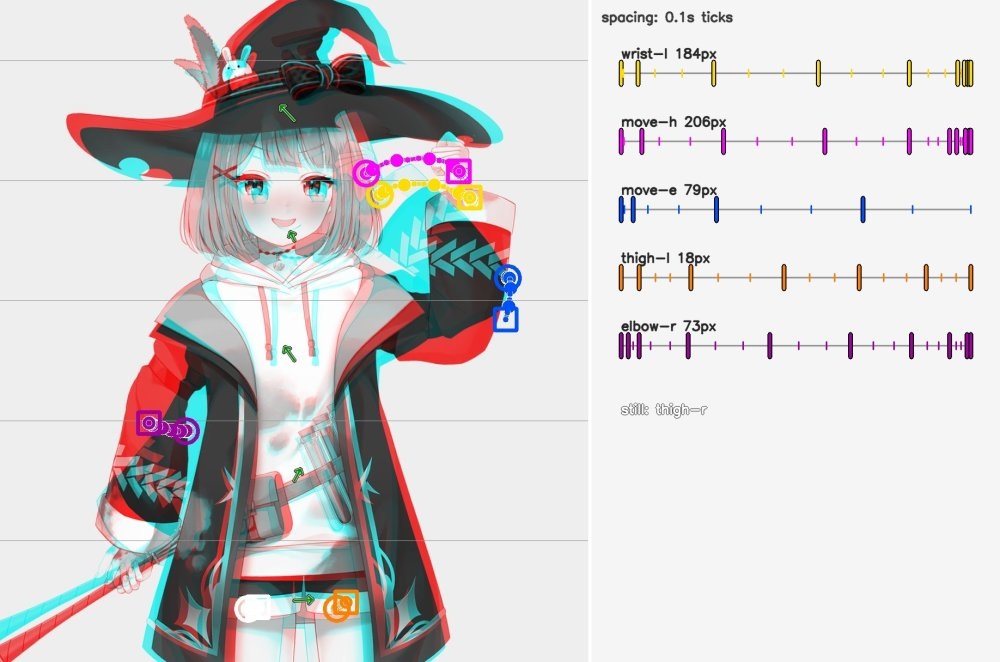
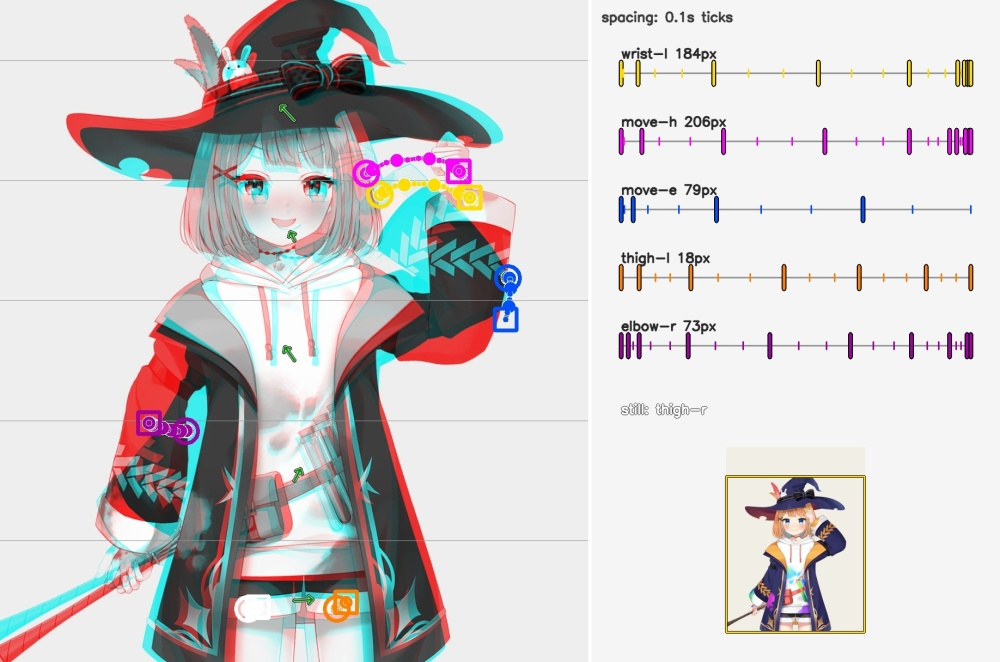
Onion pictures: crop floor and ratio limit, whole-frame stills, context frame
- The pictures (onion, strip, peak panel) show at least half the frame's
  shorter side each way, between 1.6:1 and 1:1.6. mikumiku (a character in a
  square card) gave 1372x395 strips of one body part. Measurements keep the
  padded person box: look.md unchanged on four clips.
- Short-cut stills are the whole frame.
- The chart panel shows the span's whole first frame under its rows, with the
  onion's view outlined in yellow. It fills the panel's empty space: mikumiku
  stays 6 sheets, ~9,200 image tokens.
- README examples regenerated; captions and legends name the small frame.
- Manifest rehashed (also picks up files from #71/#72 that were not rehashed).

Changed region(s): [[0.713, 0.6949, 0.868, 0.9668]]

diff --git a/image_lens/onion.py b/image_lens/onion.py
@@ -16,6 +16,23 @@ def _box(bbox, w, h):
     return max(0, int(x0-px)), max(0, int(y0-py)), min(w, int(x1+px)), min(h, int(y1+py))
 
 
+# The pictures (onion, still, strip, peak panel) show at least half the frame's shorter side each way, between 1.6:1
+# and 1:1.6 (wide or tall, the same limit):
+# a pose box around the visible part of a character in a square card (mikumiku) cut 1372x395 strips of one body part.
+# Measurements (bands, gaps, peak's difference) stay on the padded box.
+VIEW = dict(min_side=.5, max_aspect=1.6)
+
+
+def _view(bbox, w, h):
+    x0, y0, x1, y1 = _box(bbox, w, h)
+    side = VIEW['min_side']*min(w, h)
+    bw, bh = max(x1-x0, side), max(y1-y0, side)
+    bw, bh = min(w, max(bw, bh/VIEW['max_aspect'])), min(h, max(bh, bw/VIEW['max_aspect']))
+    cx, cy = (x0+x1)/2, (y0+y1)/2
+    vx, vy = int(min(max(0, cx-bw/2), w-bw)), int(min(max(0, cy-bh/2), h-bh))
+    return vx, vy, vx+int(bw), vy+int(bh)
+
+
 # Each part's lead point (digest.limbs) drawn frame by frame on the onion: the overlay shows only start and end, the
 # trail shows how the part got there and where it bunched up (slow) or spread out (fast).
 # Every frame's dot looked evenly spaced even where the speed fell (Live2D sweep: the hand went 21 -> 0 px/f in its last
@@ -90,7 +107,7 @@ def bands(video, start, end, bbox, camera=None, image=None, trails=(), colors=No
         if camera:  # trails have the camera taken out; without this the overlay showed a pan as motion (anime clip f180..209)
             last = cv2.warpAffine(last, np.float32([[1, 0, -cam[0]], [0, 1, -cam[1]]]), (w, h), borderMode=cv2.BORDER_REPLICATE)
         capture = cv2.VideoCapture(str(video)); fps = capture.get(cv2.CAP_PROP_FPS); capture.release()
-        _image(cv2, np, first, last, (x0, y0, x1, y1), result, image, trails, colors, named, fps)
+        _image(cv2, np, first, last, _view(bbox, w, h), result, image, trails, colors, named, fps, (x0+x1)//2)
     return result
 
 
@@ -158,22 +175,24 @@ def spacing_rows(trails, fps):
     return rows, skipped
 
 
-def spacing(video, image, trails, colors=None):
+def spacing(video, image, trails, colors=None, context=None):
     """Append the spacing chart right of the onion image: one equal-length line per trail, a thick tick every
-    TRAILS['tick_seconds'] and a thin one per frame at the fraction of path covered; close ticks = slow."""
+    TRAILS['tick_seconds'] and a thin one per frame at the fraction of path covered; close ticks = slow.
+    context=(frame, bbox): under the rows, that whole frame small with the onion's view outlined (`_context`)."""
     import cv2
     import numpy as np
     picture = cv2.imread(str(image))
-    if picture is None or not trails:
+    if picture is None:
         return None
     capture = cv2.VideoCapture(str(video)); fps = capture.get(cv2.CAP_PROP_FPS); capture.release()
-    rows, skipped = spacing_rows(trails, fps)
-    if not rows:
+    rows, skipped = spacing_rows(trails, fps) if trails else ([], [])
+    if not rows and not context:
         return None
     h = picture.shape[0]; k = max(1., h/SPACING['height']); w = round(SPACING['width']*k)
     panel = np.full((h, w, 3), 245, np.uint8); m = round(SPACING['margin']*k); x0, x1 = m, w-m
     row = min(round(SPACING['row']*k), (h-2*m)//(len(rows)+1)); size, th = .45*k, max(1, round(k))
-    cv2.putText(panel, f"spacing: {TRAILS['tick_seconds']:g}s ticks", (round(10*k), round(22*k)), cv2.FONT_HERSHEY_SIMPLEX, size, (60, 60, 60), th, cv2.LINE_AA)
+    if rows:
+        cv2.putText(panel, f"spacing: {TRAILS['tick_seconds']:g}s ticks", (round(10*k), round(22*k)), cv2.FONT_HERSHEY_SIMPLEX, size, (60, 60, 60), th, cv2.LINE_AA)
     palette = {t['point']: c for t, c in zip(trails, colors or TRAILS['colors'])}
     for i, r in enumerate(rows):
         y = m+round(10*k)+row*i+row//2; c = palette[r['point']]; big, small = round(12*k), round(4*k)
@@ -193,15 +212,38 @@ def spacing(video, image, trails, colors=None):
         x += cv2.getTextSize(text+' ', cv2.FONT_HERSHEY_SIMPLEX, size, th)[0][0]
         if x > x1-round(60*k):
             x, y = x0, y+round(24*k)
+    if context:
+        _context(cv2, video, context, panel, (x0, y+row//2 if rows or skipped else m, x1, h-m))
     cv2.imwrite(str(image), np.hstack([picture, np.full((h, 6, 3), 255, np.uint8), panel]))
     return dict(rows=[r['point'] for r in rows], still=skipped)
 
 
-def _image(cv2, np, first, last, box, result, path, trails=(), colors=None, named=False, fps=None):
+def _context(cv2, video, context, panel, area):
+    """The whole frame, fitted into `area` of the chart panel, with the onion's view outlined: a crop alone hid that
+    mikumiku is a character inside a square card on a phone player (2026-11-01). Costs no width: the panel is there."""
+    from image_lens import frames
+    frame, bbox = context
+    got = frames.window(video, frame, frame)
+    if not got:
+        return
+    image = got[0]; h, w = image.shape[:2]; ax0, ay0, ax1, ay1 = area
+    k = min((ax1-ax0)/w, (ay1-ay0)/h)
+    if k <= 0:
+        return
+    small = cv2.resize(image, (max(1, int(w*k)), max(1, int(h*k))), interpolation=cv2.INTER_AREA)
+    sx, sy = ax0+(ax1-ax0-small.shape[1])//2, ay1-small.shape[0]
+    panel[sy:sy+small.shape[0], sx:sx+small.shape[1]] = small
+    vx0, vy0, vx1, vy1 = (_view(bbox, w, h) if bbox else (0, 0, w, h))
+    t = max(2, round(small.shape[0]/200))  # 1 px of colour did not survive JPEG
+    corners = ((sx+int(vx0*k), sy+int(vy0*k)), (sx+int(vx1*k)-1, sy+int(vy1*k)-1))
+    cv2.rectangle(panel, *corners, (0, 0, 0), t+2); cv2.rectangle(panel, *corners, (0, 220, 255), t)
+
+
+def _image(cv2, np, first, last, box, result, path, trails=(), colors=None, named=False, fps=None, centre=None):
     x0, y0, x1, y1 = box
     a = cv2.cvtColor(first, cv2.COLOR_BGR2GRAY)[y0:y1, x0:x1]; b = last[y0:y1, x0:x1]
     picture = np.dstack([b, b, a])  # dark only at the start -> cyan, dark only at the end -> red
-    centre = (x1-x0)//2
+    centre = (x1-x0)//2 if centre is None else centre-x0  # arrows on the person, not the middle of the view
     for band in result:
         top = band['y'][0]-y0
         cv2.line(picture, (0, top), (x1-x0, top), (150, 150, 150), 1)
@@ -251,9 +293,9 @@ def _image(cv2, np, first, last, box, result, path, trails=(), colors=None, name
 PEAK = dict(min_frames=8, margin=.15, scale=4, plateau=.95, draw=False)
 
 
-def _crop(cv2, image, bbox):
+def _crop(cv2, image, bbox, view=True):
     h, w = image.shape[:2]
-    x0, y0, x1, y1 = _box(bbox, w, h) if bbox else (0, 0, w, h)
+    x0, y0, x1, y1 = ((_view if view else _box)(bbox, w, h)) if bbox else (0, 0, w, h)
     return image[y0:y1, x0:x1]
 
 
@@ -269,7 +311,7 @@ def peak(video, start, end, bbox, image):
     window = frames.window(video, start, end)[:hi-start+1]
     found = {}; first = None
     for n, frame in zip(range(start, hi+1), window):
-        small = cv2.resize(cv2.cvtColor(_crop(cv2, frame, bbox), cv2.COLOR_BGR2GRAY), None, fx=1/PEAK['scale'], fy=1/PEAK['scale'], interpolation=cv2.INTER_AREA).astype(np.float32)
+        small = cv2.resize(cv2.cvtColor(_crop(cv2, frame, bbox, view=False), cv2.COLOR_BGR2GRAY), None, fx=1/PEAK['scale'], fy=1/PEAK['scale'], interpolation=cv2.INTER_AREA).astype(np.float32)
         if first is None:
             first = small
         elif n >= lo:
@@ -312,7 +354,7 @@ def who(video, frame, people, image):
 
 
 def still(video, frame, bbox, image):
-    """One native frame (cropped to the padded person box when there is one) for a range too short to track."""
+    """One native frame, whole (bbox unused, kept for callers), for a range too short to track."""
     import cv2
     cap = cv2.VideoCapture(str(video))
     try:
@@ -322,7 +364,7 @@ def still(video, frame, bbox, image):
         cap.release()
     if not ok:
         return None
-    cv2.imwrite(str(image), _crop(cv2, picture, bbox))
+    cv2.imwrite(str(image), picture)  # the whole frame: a short cut's still is context, not a close-up
     return image.name
 
 
@@ -448,7 +490,7 @@ def lines(result, image_name=None, screen=False, peak=False):
     out = [f'- 높이별 흐름 (사람 상자 5등분, {basis}): ' + ' · '.join(parts)]
     if image_name:
         out.append(f"  - 어니언 그림: {image_name} (청록=시작, 빨강=끝(진한 윤곽선 기준; 배경보다 밝은 면은 띠 색이 반대(청록 띠=간 쪽); 카메라가 움직였으면 끝 프레임을 카메라만큼 되돌려 겹침), 초록 화살표=띠별 이동 ×{ONION['arrow_scale']}(그림 밖으로 나가면 줄임, 머리보다 짧으면 생략); {'왼쪽 회색=시작과 가장 다른 가운데 프레임; ' if peak else ''}"
-                   f"색 점선=부위별 대표 점(몸 기준이 없으면 '화면'에 적힌 점)의 프레임마다 위치({'·'.join(TRAILS['names'])} 순, {basis}), 큰 원·네모=각 연속 관측의 시작·끝, 선 끊김=관측 누락, 이어진 점 간격이 좁으면 느림·넓으면 빠름, 조금 큰 점={TRAILS['tick_seconds']:g}초마다(그 간격이 좁아지면 느려짐); 맨 오른쪽 spacing=부위마다 지나온 길이를 같은 길이 줄로 펼친 것, 굵은 눈금={TRAILS['tick_seconds']:g}초마다·가는 눈금=프레임마다, 눈금이 모이면 느림·벌어지면 빠름(작은 이동도 같은 크기로 보임, {SPACING['min_px']:g}px 미만 부위는 still))")
+                   f"색 점선=부위별 대표 점(몸 기준이 없으면 '화면'에 적힌 점)의 프레임마다 위치({'·'.join(TRAILS['names'])} 순, {basis}), 큰 원·네모=각 연속 관측의 시작·끝, 선 끊김=관측 누락, 이어진 점 간격이 좁으면 느림·넓으면 빠름, 조금 큰 점={TRAILS['tick_seconds']:g}초마다(그 간격이 좁아지면 느려짐); 맨 오른쪽 spacing=부위마다 지나온 길이를 같은 길이 줄로 펼친 것, 굵은 눈금={TRAILS['tick_seconds']:g}초마다·가는 눈금=프레임마다, 눈금이 모이면 느림·벌어지면 빠름(작은 이동도 같은 크기로 보임, {SPACING['min_px']:g}px 미만 부위는 still), 그 아래 작은 그림=구간 첫 프레임 전체(노란 테두리=어니언이 잘라 보여 준 범위))")
     return out
 
 

diff --git a/image_lens/digest.py b/image_lens/digest.py
@@ -439,7 +439,7 @@ def markdown(record, scan, full_name):
                        '단, 어니언에서 그 부위의 청록·빨강 윤곽선이 벌어진 만큼 궤적(과 글의 숫자)이 따라가지 않으면(짧거나 다른 방향) 추적이 미끄러진 것으로 의심한다(카메라 추정 시 어니언과 궤적의 평행이동을 뺐다).')
     if record.get('onion_sheets'):
         out.insert(-1, f"어니언 모음 그림: {', '.join(record['onion_sheets'])} (구간마다 청록=시작, 빨강=끝(진한 윤곽선 기준; 배경보다 밝은 면은 띠 색이 반대(청록 띠=간 쪽); 카메라가 움직였으면 끝 프레임을 카메라만큼 되돌려 겹침), 초록 화살표=높이별 이동, {'왼쪽 회색=시작과 가장 다른 가운데 프레임: 돌거나 갔다 돌아오는 동작은 여기서 보임; ' if any(w.get('peak') for s in record.get('shots', []) for w in s.get('windows', [])) else ''}"
-                       f"색 점선=각 줄 \"몸 기준\"의 부위 대표 점 궤적, 몸 기준이 없는 줄은 \"화면\"에 적힌 점의 궤적({'·'.join(onion.TRAILS['names'])} = 그 줄에 적힌 순서, 점 하나가 한 프레임, 카메라 추정 시 평행이동 제외, 큰 원=시작·큰 네모=끝, 점 간격이 좁으면 느림, 조금 큰 점={onion.TRAILS['tick_seconds']:g}초마다(그 간격이 좁아지면 느려짐); 맨 오른쪽 spacing=부위마다 지나온 길이를 같은 길이 줄로 펼친 것, 굵은 눈금이 모이면 느림·벌어지면 빠름, 작은 이동의 완급은 여기서 봄); "
+                       f"색 점선=각 줄 \"몸 기준\"의 부위 대표 점 궤적, 몸 기준이 없는 줄은 \"화면\"에 적힌 점의 궤적({'·'.join(onion.TRAILS['names'])} = 그 줄에 적힌 순서, 점 하나가 한 프레임, 카메라 추정 시 평행이동 제외, 큰 원=시작·큰 네모=끝, 점 간격이 좁으면 느림, 조금 큰 점={onion.TRAILS['tick_seconds']:g}초마다(그 간격이 좁아지면 느려짐); 맨 오른쪽 spacing=부위마다 지나온 길이를 같은 길이 줄로 펼친 것, 굵은 눈금이 모이면 느림·벌어지면 빠름, 작은 이동의 완급은 여기서 봄, 그 아래 작은 그림=구간 첫 프레임 전체(노란 테두리=어니언이 잘라 보여 준 범위)); "
                        '"who"=사람이 여럿인 구간의 P1·P2 상자; "still"=추적하기엔 짧은 컷의 한 장면, 붙어 있는 컷은 한 줄에 시간 순서; "strip"=몸 돌림 후보 구간의 프레임 5장을 시간 순서로). '
                        '손 모양(하트·브이)처럼 글에 안 나오는 동작은 그림에서 본다.')
     if record.get('frame_sheets'):

diff --git a/image_lens/mark.py b/image_lens/mark.py
@@ -141,7 +141,7 @@ def run(video, shots, frame, points, checkpoint, out, end=None, snap_points=True
         text.append(f"- 어니언 그림: {onion_image} (청록=f{frame}, 빨강=f{stop}(진한 윤곽선 기준; 배경보다 밝은 면은 띠 색이 반대(청록 띠=간 쪽); 카메라가 움직였으면 끝 프레임을 카메라만큼 되돌려 겹침), 색 점선=찍은 점의 프레임마다 위치({basis}; "
                     + ', '.join(f'{c}={n}' for n, c in colors) + "), "
                     f"큰 원·네모=각 연속 관측의 시작·끝, 선 끊김=관측 누락, 이어진 점 간격이 좁으면 느림·넓으면 빠름, 조금 큰 점={onion.TRAILS['tick_seconds']:g}초마다; {'왼쪽 회색=시작과 가장 다른 가운데 프레임; ' if peaked else ''}"
-                    "맨 오른쪽 spacing=점마다 지나온 길이를 같은 길이 줄로 펼친 것(줄 이름=점 이름, 눈금 색=궤적 색), 굵은 눈금이 모이면 느림·벌어지면 빠름, still=거의 안 움직인 점)")
+                    "맨 오른쪽 spacing=점마다 지나온 길이를 같은 길이 줄로 펼친 것(줄 이름=점 이름, 눈금 색=궤적 색), 굵은 눈금이 모이면 느림·벌어지면 빠름, still=거의 안 움직인 점, 그 아래 작은 그림=구간 첫 프레임 전체(노란 테두리=어니언이 잘라 보여 준 범위))")
         text.append(f"  - {SLIP}")
     lines, summary = look._summary(view, dict(seed=frame, end=stop), 'marked', 'mark.report.md', 'mark-traj/trajectory.png')
     if relative:summary['relative_report']=relative.name
@@ -176,7 +176,8 @@ def _onion(video, frame, stop, names, tracks, moving, camera, image):
     onion.bands(video, frame, stop, (min(xs)-m, min(ys)-m, max(xs)+m, max(ys)+m), moving, image, trails,
                 onion.TRAILS['colors']+MARK_COLORS)
     peaked = onion.peak(video, frame, stop, (min(xs)-m, min(ys)-m, max(xs)+m, max(ys)+m), image)
-    onion.spacing(video, image, trails, onion.TRAILS['colors']+MARK_COLORS)
+    onion.spacing(video, image, trails, onion.TRAILS['colors']+MARK_COLORS,
+                  context=(frame, (min(xs)-m, min(ys)-m, max(xs)+m, max(ys)+m)))
     return image.name, [(t['point'], c) for t, c in zip(trails, onion.TRAILS['names']+MARK_COLOR_NAMES)], peaked
 
 

diff --git a/tests/test_onion.py b/tests/test_onion.py
@@ -262,4 +262,36 @@ class Peak(unittest.TestCase):
             self.assertGreater(cols.size, 1.3*onion.SHEET['tile_height'])  # beside the still at full height, wider than tall
 
 
+    def test_picture_view_has_a_floor_and_the_same_ratio_limit_both_ways(self):
+        a = onion.VIEW['max_aspect']
+        for bbox in ((300, 900, 800, 1050), (500, 300, 560, 1500), (0, 0, 40, 40), (1040, 1880, 1080, 1920)):
+            x0, y0, x1, y1 = onion._view(bbox, 1080, 1920)
+            vw, vh = x1-x0, y1-y0
+            self.assertTrue(0 <= x0 < x1 <= 1080 and 0 <= y0 < y1 <= 1920)
+            self.assertGreaterEqual(min(vw, vh), onion.VIEW['min_side']*1080-1)
+            self.assertLessEqual(max(vw/vh, vh/vw), a+.01)
+        bx = onion._box((300, 900, 800, 1050), 1080, 1920); v = onion._view((300, 900, 800, 1050), 1080, 1920)
+        self.assertTrue(v[0] <= bx[0] and v[1] <= bx[1] and v[2] >= bx[2] and v[3] >= bx[3])  # never cuts the person
+
+
+    def test_context_frame_sits_in_the_chart_panel_and_stills_are_whole(self):
+        import cv2
+        import numpy as np
+        with tempfile.TemporaryDirectory() as d:
+            video = Path(d)/'v.avi'; out = cv2.VideoWriter(str(video), cv2.VideoWriter_fourcc(*'MJPG'), 10, (320, 240))
+            for k in range(6):
+                frame = np.full((240, 320, 3), 255, np.uint8); cv2.rectangle(frame, (100+4*k, 80), (140+4*k, 160), (0, 0, 0), -1)
+                out.write(frame)
+            out.release()
+            image = Path(d)/'o.jpg'; bbox = (100, 80, 160, 160)
+            onion.bands(video, 0, 5, bbox, None, image); width = cv2.imread(str(image)).shape[1]
+            self.assertEqual(onion.spacing(video, image, [], context=(0, bbox)), dict(rows=[], still=[]))
+            picture = cv2.imread(str(image)); panel = picture[:, width+6:]
+            yellow = (panel[..., 0] < 80) & (panel[..., 1] > 150) & (panel[..., 2] > 200)
+            self.assertGreater(int(yellow.sum()), 20)  # the view outline on the small whole frame
+            self.assertIsNone(onion.spacing(video, Path(d)/'missing.jpg', []))
+            onion.still(video, 2, bbox, Path(d)/'s.jpg')
+            self.assertEqual(cv2.imread(str(Path(d)/'s.jpg')).shape[:2], (240, 320))
+
+
 if __name__ == '__main__': unittest.main()

diff --git a/image_lens/look.py b/image_lens/look.py
@@ -474,7 +474,7 @@ def _run(video, detector, pose_model, checkpoint, out, max_shots=LOOK['max_shots
                         done['mark_hint'] = hint; slot.append('  '+_mark_hint(hint, source, root/'shots.json'))
                 done['onion'] = picture.name
                 done['peak'] = onion.peak(source, w['seed'], end, person['bbox'], picture)
-                done['spacing'] = onion.spacing(source, picture, done['trails'])
+                done['spacing'] = onion.spacing(source, picture, done['trails'], context=(w['seed'], person['bbox']))
                 turns = [e['share'] for e in (done.get('events') or {}).get('width', []) if e['share'] >= body_motion.EVENTS['turn']]
                 if turns:
                     done['turn_share'] = max(turns); stripping.append((done, end, person['bbox'], base))

diff --git a/docs/README.en.md b/docs/README.en.md
@@ -87,7 +87,7 @@ One line from the `look.md` of a live-action solo dance video, the span where th
 
 <p align="center"><img src="../assets/example-onion.jpg" width="560" alt="An onion picture made by look. On the left the start frame (cyan) and end frame (red) are overlaid; a yellow dotted trail follows the right leg from low up to knee height, and green arrows show movement by height. On the right is the spacing chart."></p>
 
-The onion skin of the same span. The left panel overlays the start (cyan) and the end (red). The dotted trails are the parts in the order `몸 기준` lists them: yellow (right leg), magenta (left leg), blue (left arm)… One dot is one frame; a slightly bigger dot marks every 0.1 s, so where those get closer the part slowed down. A circle is the start, a square the end. Green arrows are the `높이별` movement. The right panel is a spacing chart: each part's path stretched to one equal-length line, with a thick tick every 0.1 s. Close ticks mean slow, wide ticks fast, so the ease of a small move reads here too.
+The onion skin of the same span. The left panel overlays the start (cyan) and the end (red). The dotted trails are the parts in the order `몸 기준` lists them: yellow (right leg), magenta (left leg), blue (left arm)… One dot is one frame; a slightly bigger dot marks every 0.1 s, so where those get closer the part slowed down. A circle is the start, a square the end. Green arrows are the `높이별` movement. The right panel is a spacing chart: each part's path stretched to one equal-length line, with a thick tick every 0.1 s. Close ticks mean slow, wide ticks fast, so the ease of a small move reads here too. The small picture under the chart is the whole first frame of the span, with the part the onion shows outlined in yellow.
 
 The tool was also confused in this example: the shoulder width changed as the leg came up, so a turn candidate was marked although the body did not turn. The left arm's speed also came out unknown.
 

diff --git a/docs/look-notes.md b/docs/look-notes.md
@@ -336,3 +336,9 @@ Cost on mikumiku (50 tiles; tokens estimated as image area after the reader's 15
 | 540 | 9 | ~13,800 | 287-540 px |
 
 Larger tiles gain less than their cost because tall sheets are downscaled when read. The user picked 360 (same reasoning as the peak panel: tokens against information). A row with a tile that does not fit leaves a black gap on its right.
+
+## Picture crop floor, whole-frame stills and context (2026-11-01)
+
+mikumiku puts a character inside a square card on a phone player (1080x1920). The pose box covered only the visible part of the body, so onions came out as strips of one part (1372x395, 580x243). The pictures (onion, strip, peak panel) now show at least half the frame's shorter side each way, between 1.6:1 and 1:1.6, grown around the padded box and kept in the frame; band features, gap seeds and peak's difference stay on the padded box, so look.md text was unchanged on mikumiku, the dancer, the Live2D sweep and the sliding wave (diff 0 outside the legend).
+
+A short cut's still is now the whole frame. The chart panel also shows, under its rows, the whole first frame of the span with the onion's view outlined in yellow, so a crop is never read without where it sits. It uses the panel's empty lower part: mikumiku stayed 6 sheets, ~9,200 image tokens. With six chart rows the small frame gets small.
